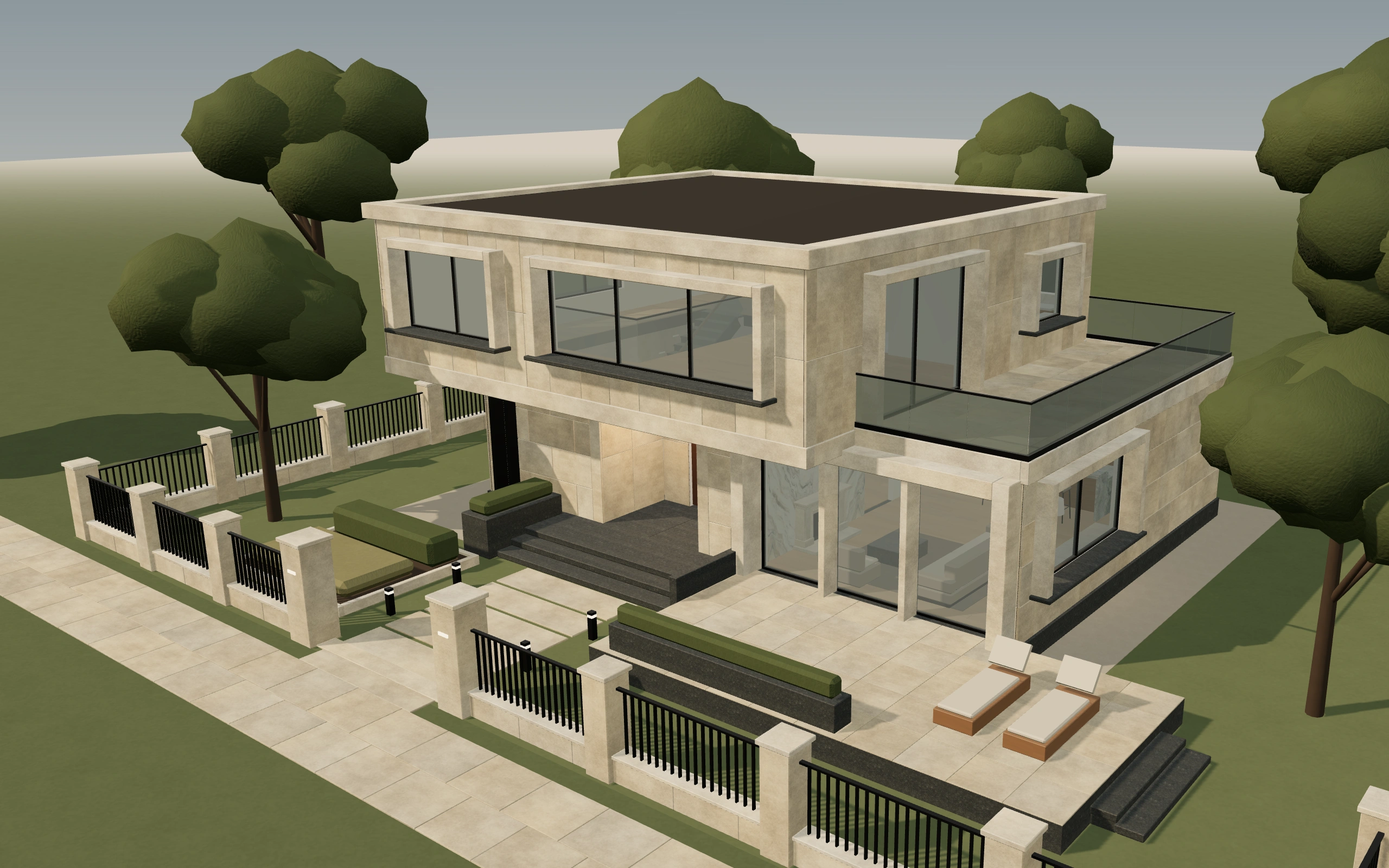
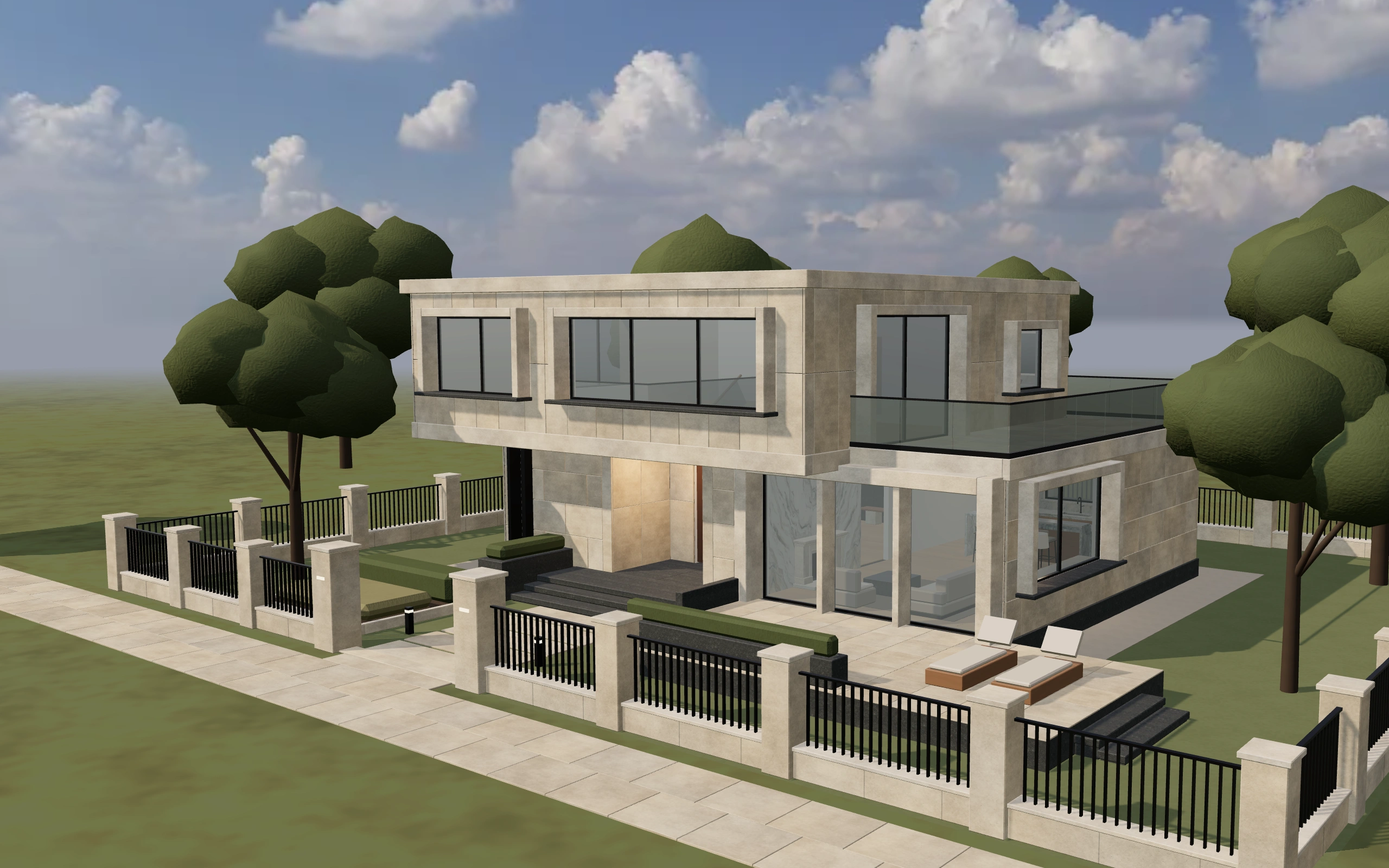
feat(home): showroom house picture with the photographed sky
The home page's showroom band and the header's «Шоурум» panel now show a
new frame of the 3D scene: the photographed sky, the meadow and the new
light, from a camera lower than the opening view (same direction) so the
clouds are in the frame. Same file names and sizes; how it was taken and
the camera are in assets/home/SOURCES.md.

diff --git a/assets/home/SOURCES.md b/assets/home/SOURCES.md
@@ -3,31 +3,35 @@
 ## Дом шоурума (портал в 3D-шоурум)
 
 `showroom-house-2560.webp`, `showroom-house-1600.webp` — кадр существующей 3D-сцены
-шоурума (`showroom.html`), стартовый вид «Дом снаружи». Это рендер виртуального
-«Дома из натурального камня», а не фотография реального здания.
+шоурума (`showroom.html`), дом снаружи. Это рендер виртуального «Дома из натурального
+камня», а не фотография реального здания.
 
-Как получен (2026-10-02): `showroom.html` открыт во встроенном браузере с окном
-2560×1600 (плотность пикселей 1); после окончания загрузки сцены вызван `resize`,
-и сразу после отрисовки кадра (в том же кадре анимации) содержимое WebGL-холста
-прочитано через `canvas.toDataURL`. В изображение попадает только холст —
-интерфейс шоурума (шапка, карточка зоны, маркеры, переключатель зон, подсказки)
-находится в DOM поверх холста и в кадр не входит. Сцена, её код, палитра и
-`preserveDrawingBuffer` не менялись.
+Как получен (2026-10-09, переснят после фото-неба, луга и тёмного разреза): `showroom.html`
+открыт в Chrome без окна (Playwright, окно 2560×1600, плотность пикселей 1, видеокарта —
+ANGLE / Direct3D 11). Камера поставлена ниже стартового вида, чтобы в кадр вошло небо с
+облаками: то же направление на дом, позиция `[17.6, 6.5, 25.5]`, точка взгляда
+`[-0.6, 3.6, 1.6]` (стартовый вид — `[16.0, 10.2, 23.4]` → `[-0.6, 2.2, 1.6]`). Для этого
+только в браузере съёмки модуль `showroom-app.js` отдан с одной добавленной строкой,
+открывающей странице доступ к камере; файлы проекта не менялись (скрипт съёмки —
+`housecap2.py` в рабочей папке сессии, не в репозитории). После загрузки сцены и
+проявления неба вызван `resize`, и сразу после отрисовки кадра (в том же кадре анимации)
+содержимое WebGL-холста прочитано через `canvas.toDataURL`. В изображение попадает только
+холст — интерфейс шоурума находится в DOM поверх холста и в кадр не входит.
 
 | Файл | Размер | Байт | SHA-256 |
 |---|---|---|---|
[4 lines of base64/hex data omitted]
 
 2560 — WebP (качество 0,95) прямо из холста; 1600 — уменьшенная копия
-(Lanczos, WebP 86, без метаданных) для экранов с обычной плотностью.
+(ffmpeg 9.0, Lanczos, WebP 86, без метаданных) для экранов с обычной плотностью.
 
-Если сцена шоурума изменится, кадр нужно снять заново тем же способом.
+Если сцена шоурума изменится, кадр нужно снять заново тем же способом и с той же камерой.
 
-`showroom-house-640.webp` (640×400, 29 918 байт, SHA-256
[1 lines of base64/hex data omitted]
+`showroom-house-640.webp` (640×400, 31 726 байт, SHA-256
[1 lines of base64/hex data omitted]
 `showroom-house-1600.webp` (ffmpeg, Lanczos, WebP 84, без метаданных) для панели «Шоурум»
-в шапке, где дом показан шириной около 280 px (2026-10-04).
+в шапке, где дом показан шириной около 280 px (2026-10-09).
 
 ## Плита в hero (уменьшенные копии слэба)
 
